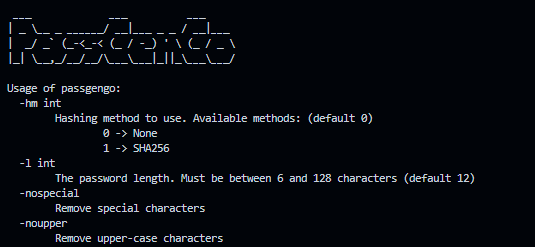
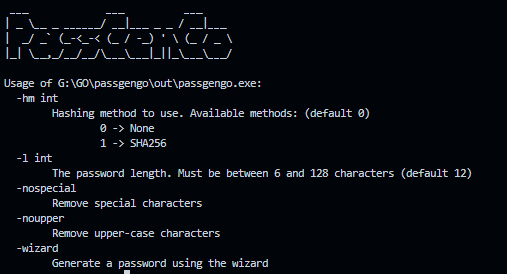
update README.md (#4)

Changed region(s): [[0.0, 0.0283, 0.9467, 1.0], [0.4438, 0.1134, 0.4734, 0.1417]]

diff --git a/README.md b/README.md
@@ -2,3 +2,49 @@
 A (maybe) overkill CLI tool to generate passwords
 
 ![Help image](./images/help.png)
+
+## Basic usage
+
+### Hashing Method
+Available hashing methods
+```
+ -hm int
+        Hashing method to use. Available methods: (default 0)
+                0 -> None
+                1 -> SHA256
+```
+> Don't worry, you will be given the cleartext password as well.  
+
+**Output Example**
+```
+[INFO] => Using a hashing method, cleartext password: 4)sLu!*#9(Dz
+[SUCC] => Generated password: 279ce39d5753610f9aa5f90f354dceae8cc5bee991fb745269f9ccb7b8b1fc54
+```
+
+### Length
+Specifies the password length
+```
+-l int
+        The password length. Must be between 6 and 128 characters (default 12)
+```
+
+### No special characters
+Disables special characters
+```
+-nospecial
+        Remove special characters
+```
+
+### No upper characters
+Disables upper case characters
+```
+-noupper
+        Remove upper-case characters
+```
+
+### Wizard
+If you do not wish to use parameters to generate the password, you may use the `wizard` switch
+```
+-wizard
+        Generate a password using the wizard
+```
